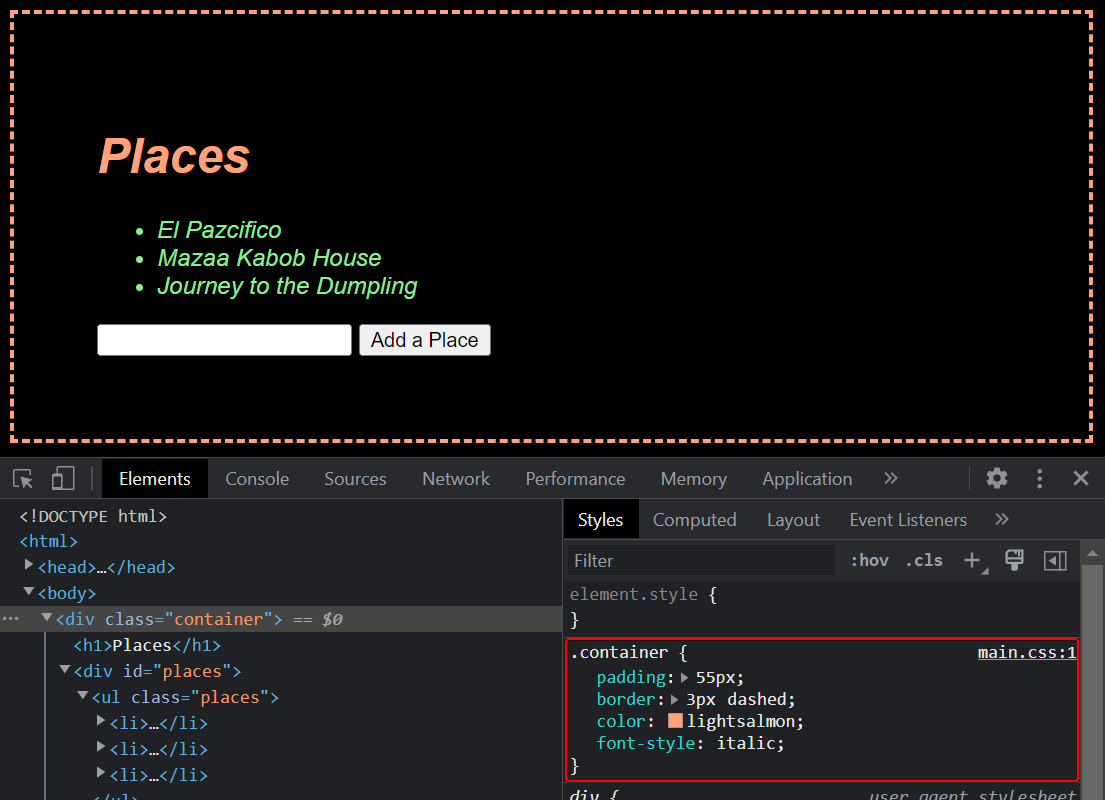
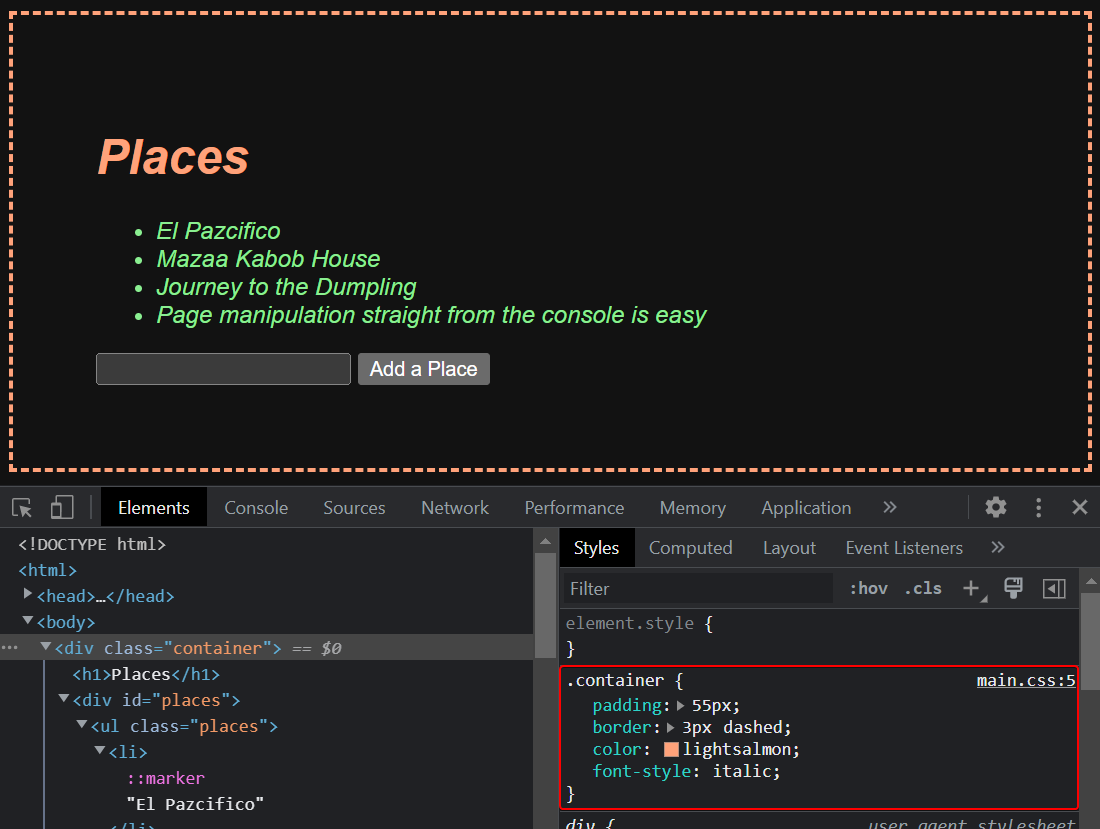
updated 0c to use the dark mode

diff --git a/src/content/0/en/part0c.md b/src/content/0/en/part0c.md
@@ -444,15 +444,17 @@ Cascading Style Sheets, or CSS, is a style sheet language used to determine the 
 The fetched CSS file looks as follows:
 
 ```css
+:root {
+  color-scheme: dark;
+}
+
 .container {
   padding: 10px;
   border: 1px solid
 }
 
 body {
-  background-color: black;
   font-family: sans-serif;
-  color: white;
 }
 
 .places {
@@ -460,9 +462,15 @@ body {
 }
 ```
 
-The file defines one [type selector](https://developer.mozilla.org/en-US/docs/Web/CSS/Type_selectors)(*`body`*) and two [class selectors](https://developer.mozilla.org/en-US/docs/Web/CSS/Class_selectors).
-The type selector is merely present to switch the component to look closer to a dark mode equivalent (and to make it .1% more stylish).
+The file defines:
+
+- two [class selectors](https://developer.mozilla.org/en-US/docs/Web/CSS/Class_selectors) (*`.container`* and *`.places`*)
+- one [type selector](https://developer.mozilla.org/en-US/docs/Web/CSS/Type_selectors)(*`body`*)
+- one [pseudo-class selector](https://developer.mozilla.org/en-US/docs/Web/CSS/Pseudo-classes) (*`:root`*)
+
 The **class selectors** are used to select certain parts of the page and to define styling rules to style them.
+The type and pseudo-class selectors are merely present to switch the component to look closer to a dark mode equivalent (and to make it .1% more stylish).
+Those two are not as important to our current discussion.
 
 A class selector definition always starts with a period and contains the name of the class.
 
@@ -631,7 +639,7 @@ The form has no `action` or `method` attributes to define how and where to send 
 Open the ***Network*** tab and empty it.
 When you now create a new place, you'll notice that the browser sends only one request to the server.
 
-![Network tab in developer tools](../../images/0/26e.png)
+![Network tab in developer tools for spa shows just one request](../../images/0/26e.png)
 
 The POST request to the address `new_place_spa` contains the new place as JSON data containing both the name of the place (`name`) and the timestamp (`date`):
 
